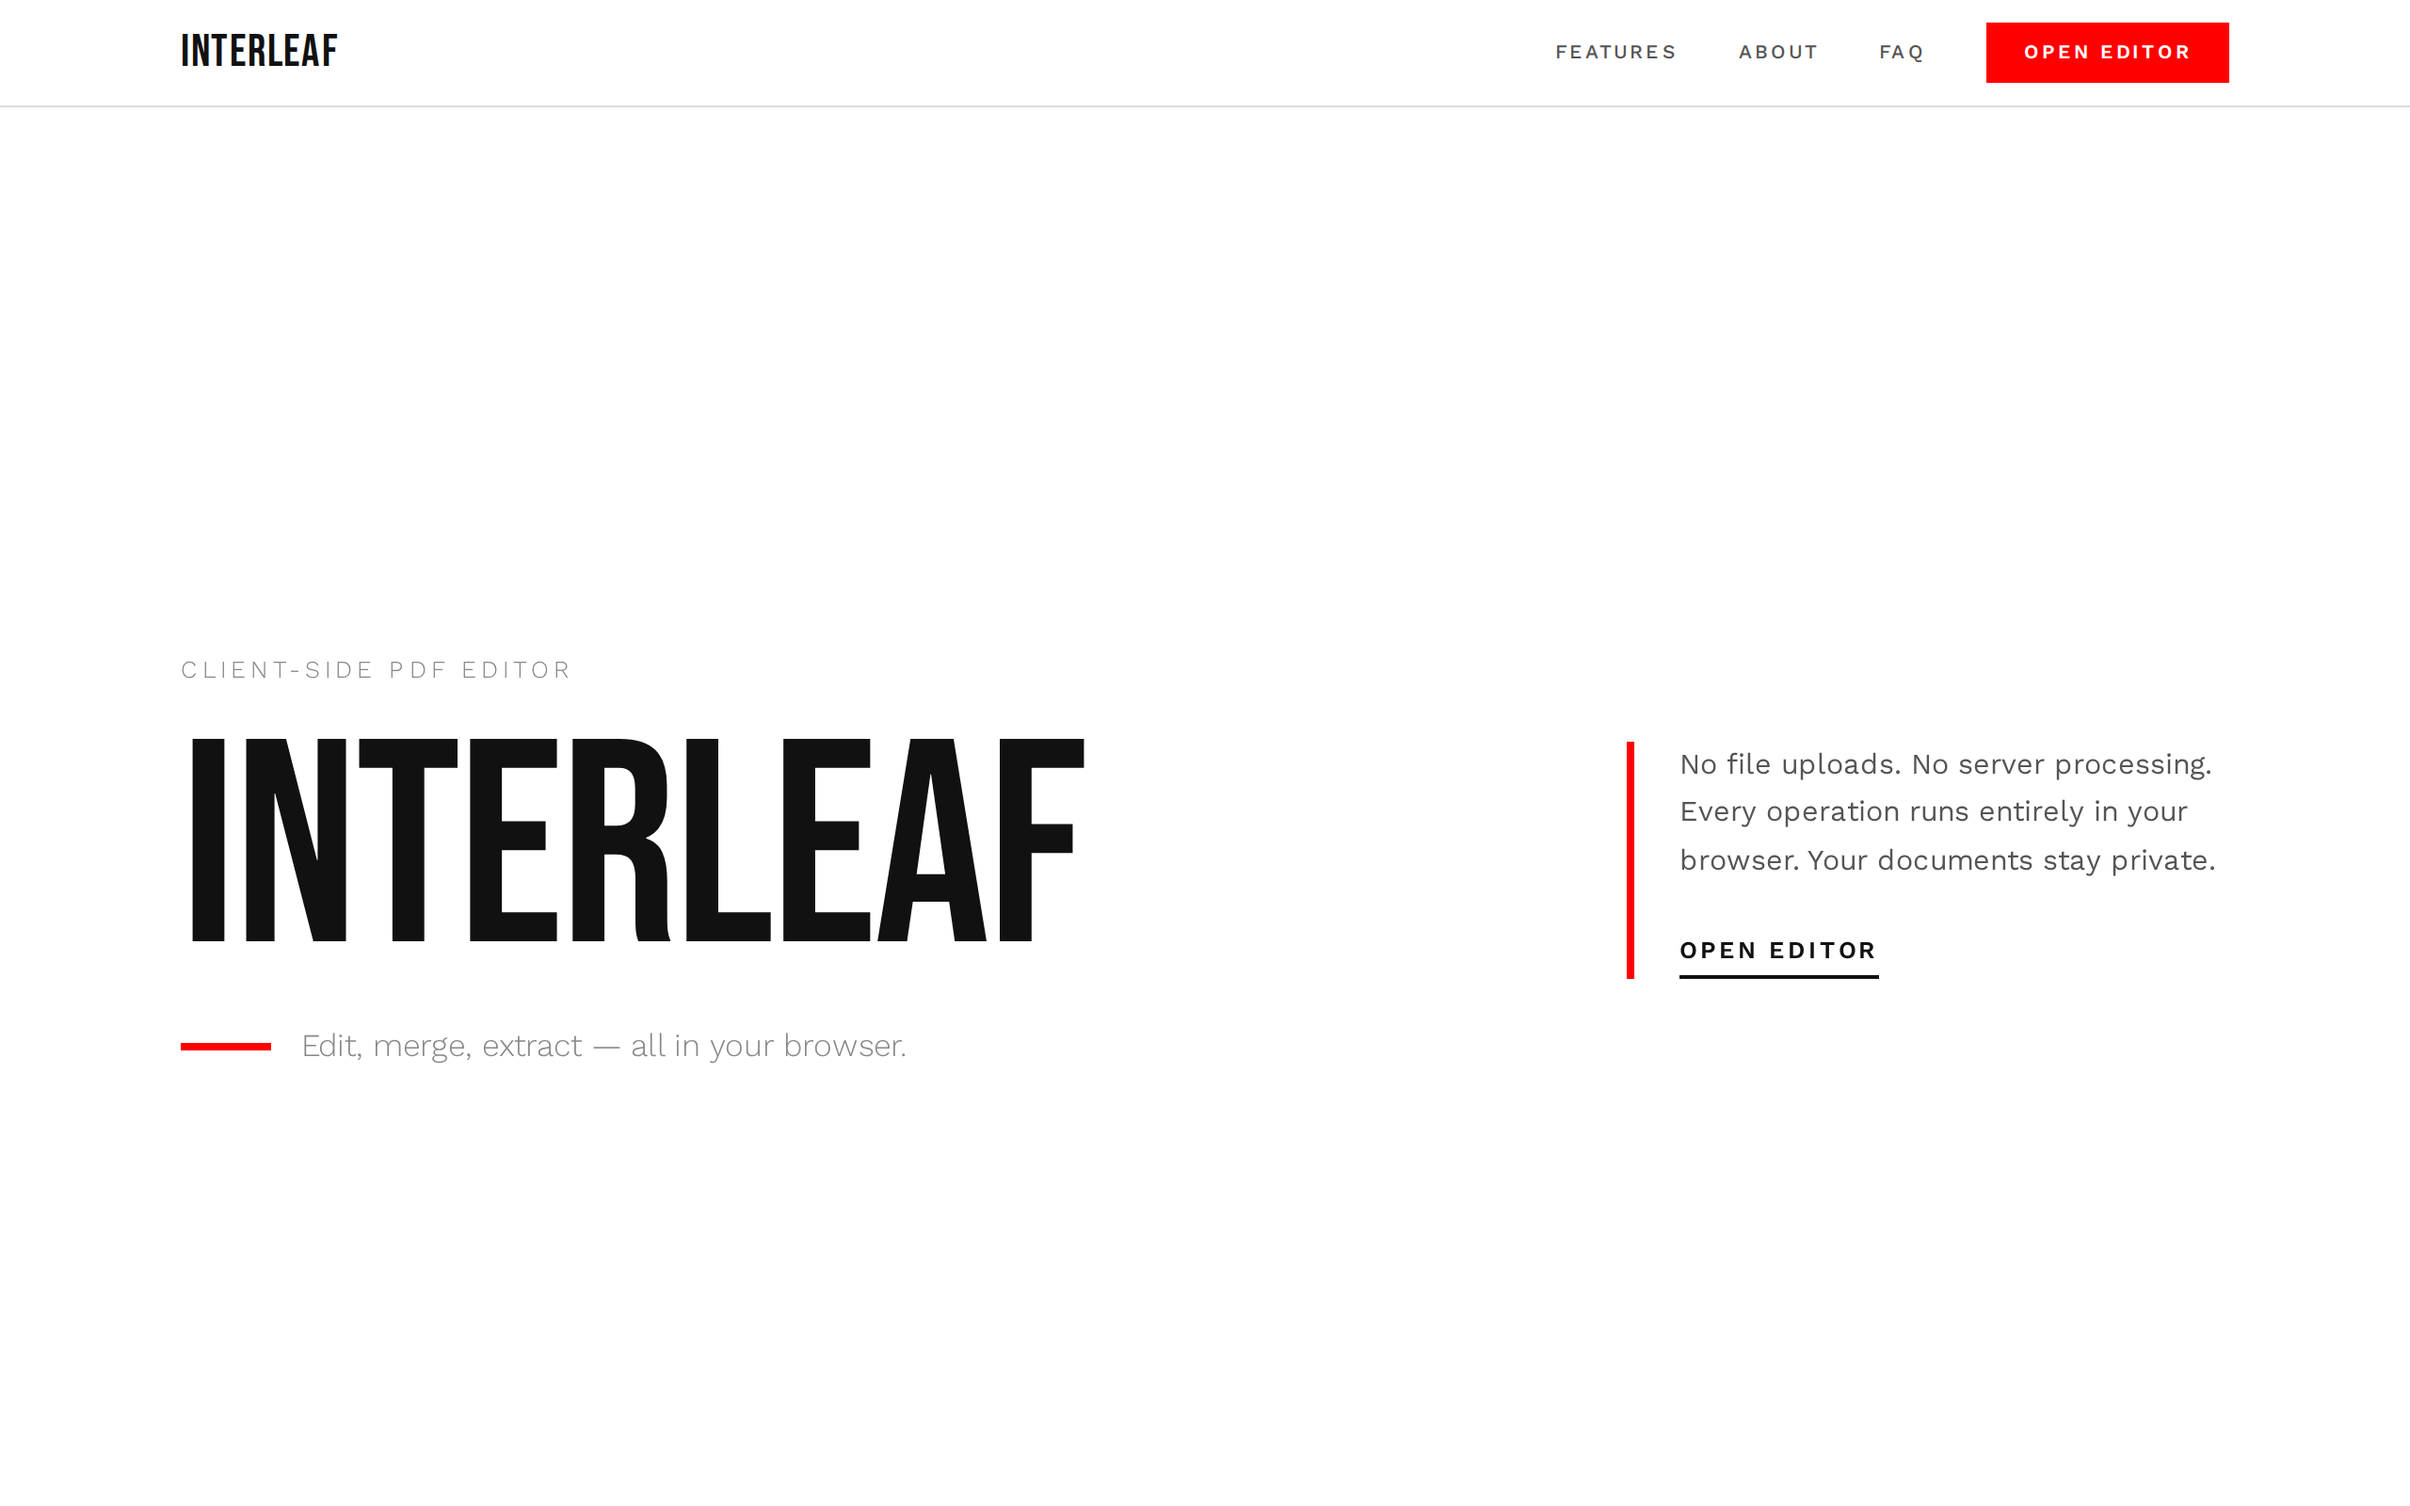
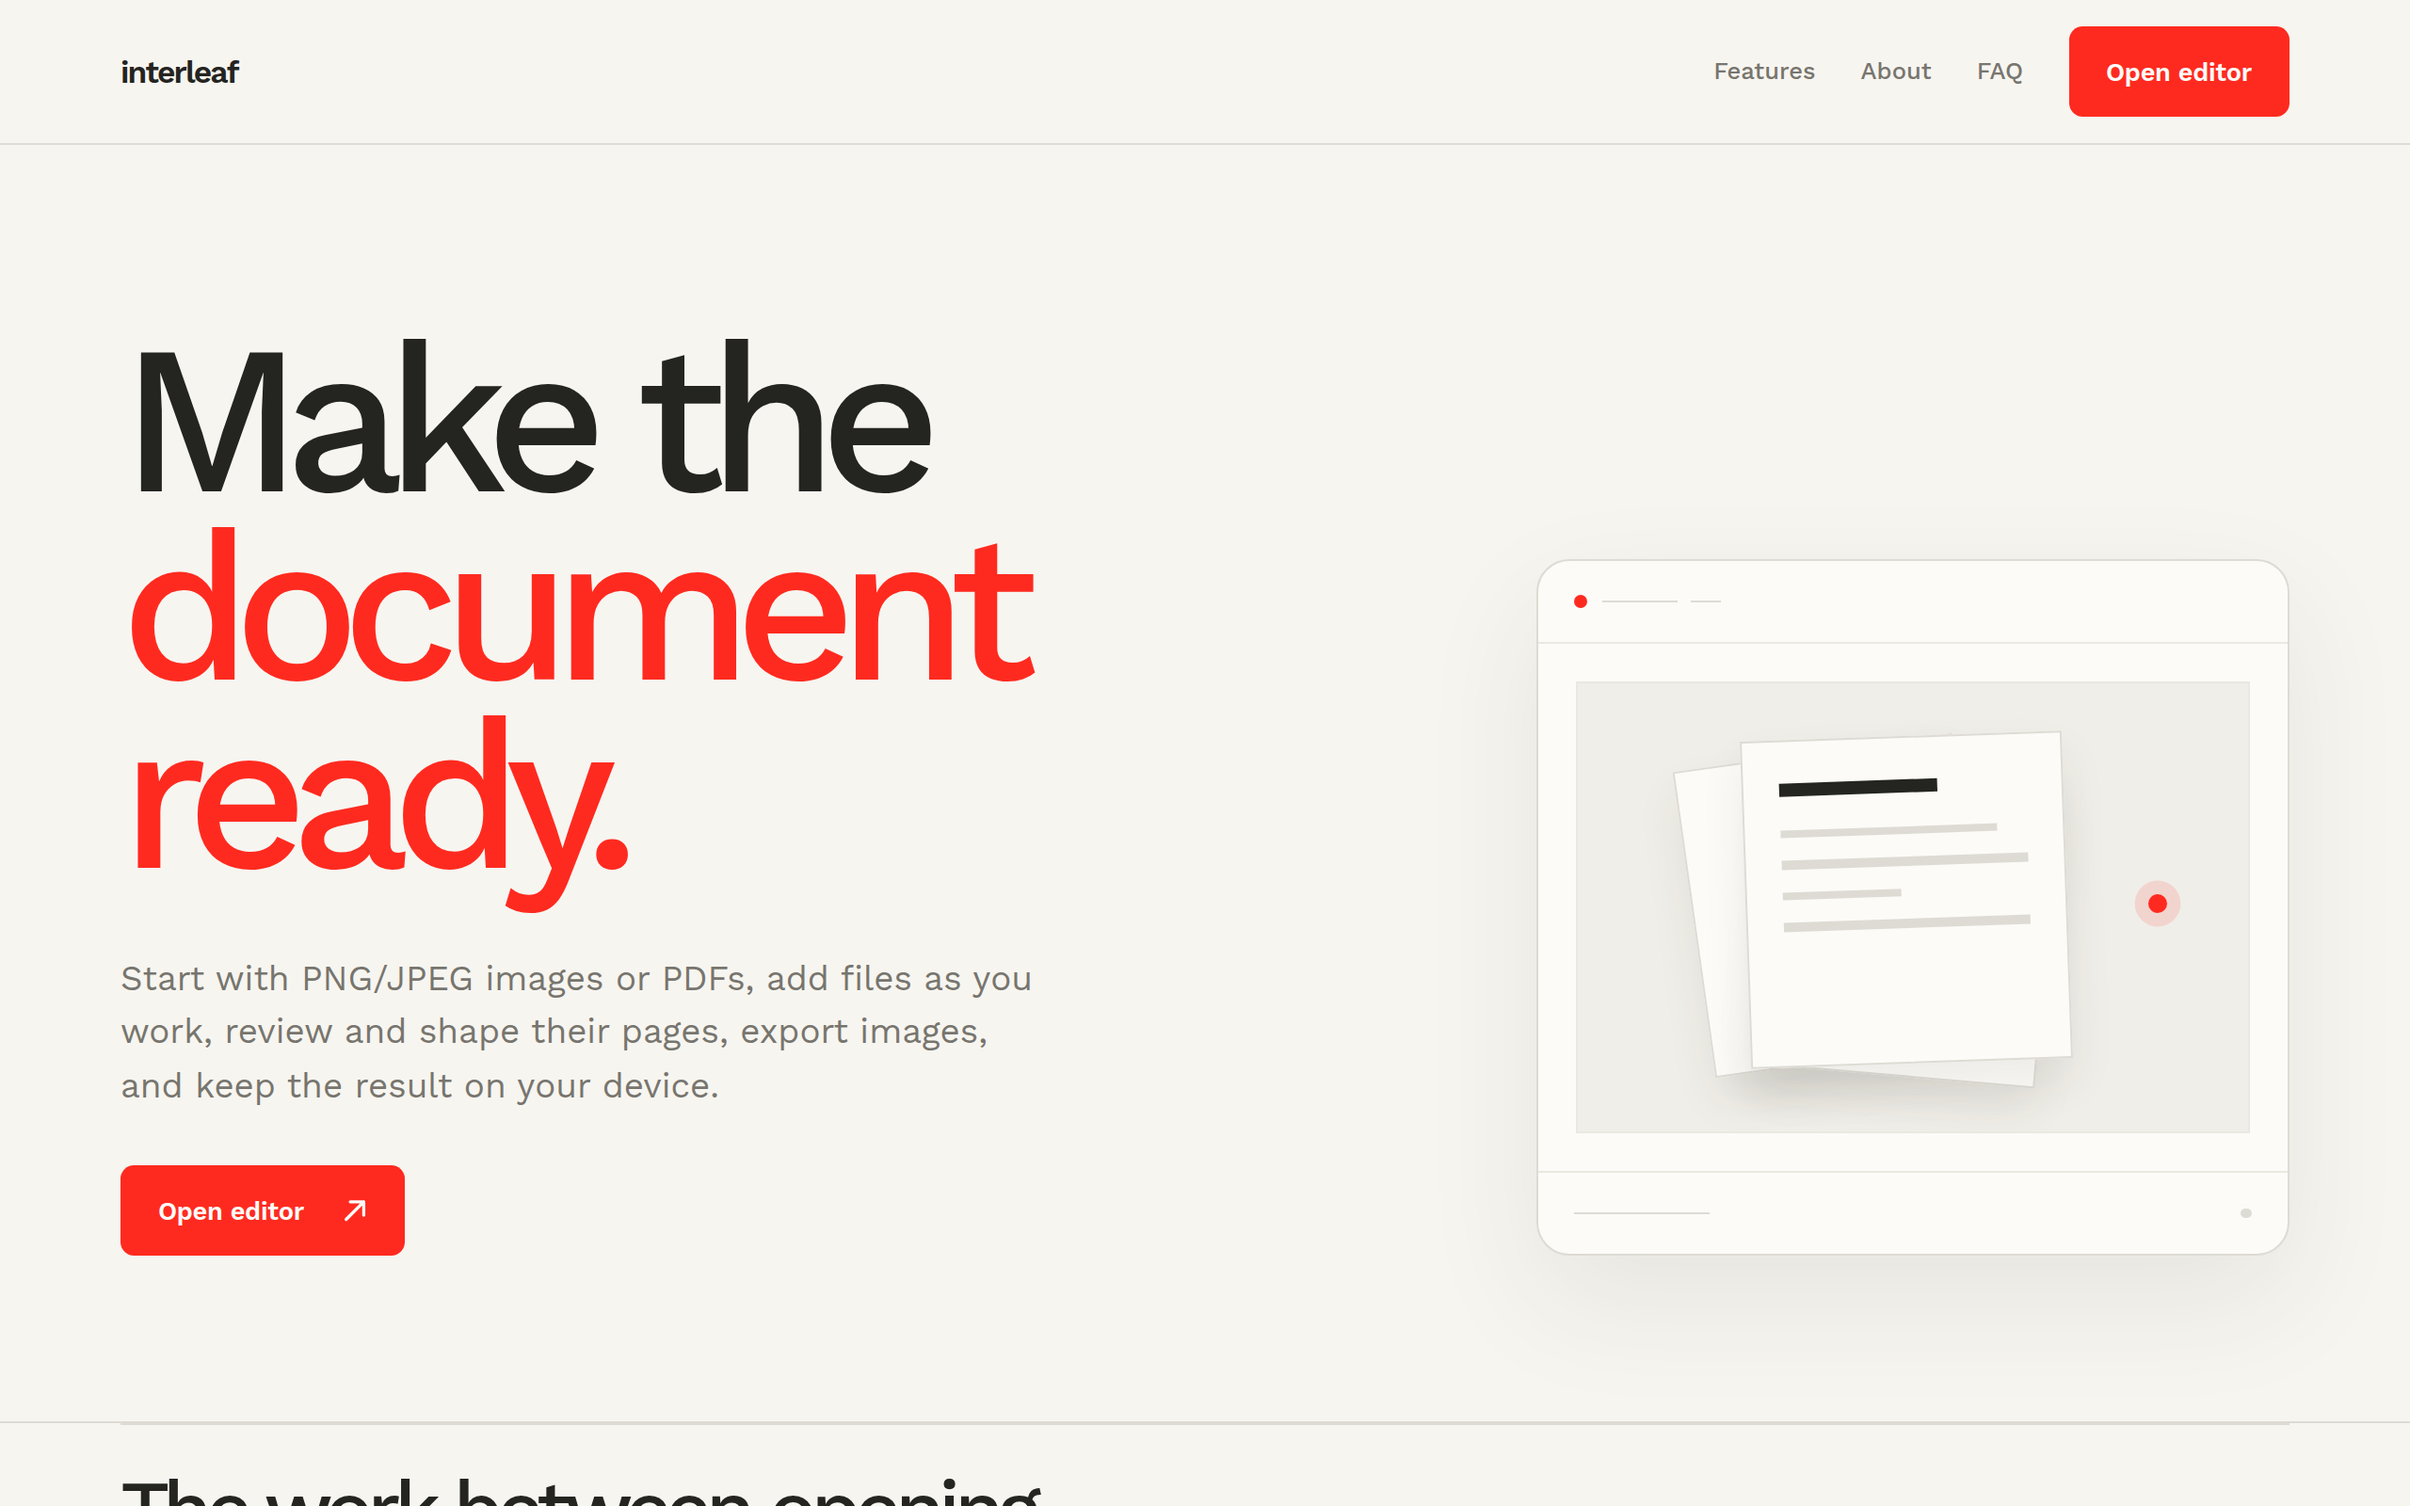
fix: refresh Interleaf URL and project screenshot (#313)

diff --git a/src/content/projects/interleaf.md b/src/content/projects/interleaf.md
@@ -2,7 +2,7 @@
 title: "interleaf"
 description: "client-side pdf manipulation tool - merge, split, reorder, rotate, and more"
 accent: "#ff0000"
-url: "https://interleaf-snowy.vercel.app"
+url: "https://www.interleaf.cc"
 publishedDate: 2026-02-16
 ---
 
@@ -19,4 +19,4 @@ No files ever leave your machine — all processing happens locally using browse
 ## Links
 
 - **Repository**: [GitHub](https://github.com/abijith-suresh/interleaf)
-- **Live Demo**: [interleaf-snowy.vercel.app](https://interleaf-snowy.vercel.app)
+- **Live Demo**: [interleaf.cc](https://www.interleaf.cc)

diff --git a/CHANGELOG.md b/CHANGELOG.md
@@ -4,6 +4,11 @@ All notable changes to this site are documented in this file.
 
 ## Unreleased
 
+### Changed — 2026-10-03
+
+- Update Interleaf's project links to `www.interleaf.cc` and replace its
+  screenshot with the redesigned production landing page.
+
 ### Changed — 2026-09-11
 
 - Mirror project screenshot framing with each card's left or right layout, and
